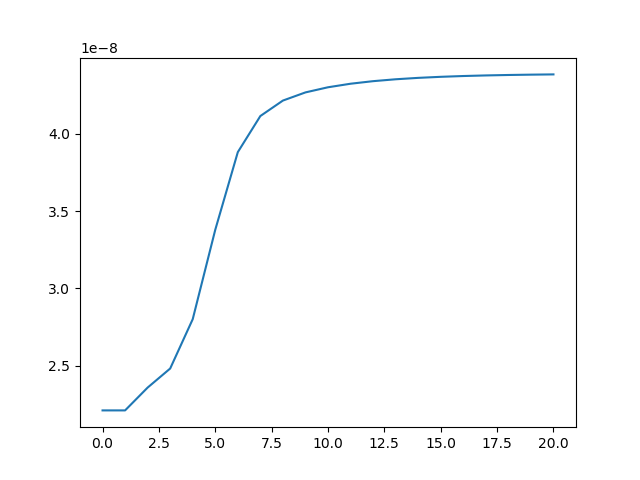
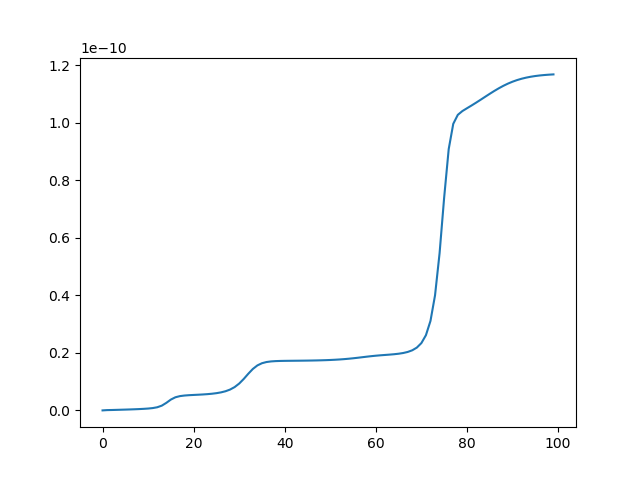
This seems to be working fine!

diff --git a/Baumwelch.py b/Baumwelch.py
@@ -87,13 +87,13 @@ def computeloglikelihoodnew(pie,transmtrx,obsmtrx,observations):
     thirdelemsum = 0.0
     for state1 in range(nstates):
         firstelemsum += np.log(pie[state1])
+        for state2 in range(nstates):
+            secondelemsum += np.log(transmtrx[state1,state2] )
         for time in range(timelength):
-            for state2 in range(nstates):
-                    secondelemsum += np.log(transmtrx[state1,state2] )
             for obs in range(numobscases):
                 if observations[time] == obs:
                     thirdelemsum += np.log(obsmtrx[state1,int(obs)])
-    return -(firstelemsum + secondelemsum + thirdelemsum)
+    return (firstelemsum + secondelemsum + thirdelemsum)
 
 
 # advanced version :D
@@ -306,7 +306,7 @@ def M_step(gammas,kissies,numobscases,observations):
         newpie = eps *np.ones((numstate))
         newtransmtrx = eps * np.ones((numstate,numstate))
         newobsmtrx = eps * np.ones((numstate,numobscases))
-        numsamples = eps * np.shape(gammas)[0]
+        numsamples = np.shape(gammas)[0]
         for i in range(numstate):
             newpie[i] = np.mean((gammas[:,0,i]))
         for q in range(numstate):
@@ -361,7 +361,7 @@ def Baumwelch(observations,numstates,numobscases,exmodel = None):
 
     # initialization
     # (pie,transmtrx,obsmtrx )= initializeparameters(observations,numstates,numobscases,numsamples)
-    # (pie,transmtrx,obsmtrx )= initializeparameters_closetoreality(observations,numstates,numobscases,numsamples,exmodel)
+    (pie,transmtrx,obsmtrx )= initializeparameters_closetoreality(observations,numstates,numobscases,numsamples,exmodel)
     # (pie,transmtrx,obsmtrx ) = clipvalues_prevunderflow_small(pie,transmtrx,obsmtrx)
     # print "realpie"
     # print exmodel.pie
@@ -373,16 +373,16 @@ def Baumwelch(observations,numstates,numobscases,exmodel = None):
     # print exmodel.obsmtrx
     # print obsmtrx
     # print pie
-    pie = exmodel.pie
-    transmtrx = exmodel.transitionmtrx
-    obsmtrx = exmodel.obsmtrx
-    noiterations = 20
+    # pie = exmodel.pie
+    # transmtrx = exmodel.transitionmtrx
+    # obsmtrx = exmodel.obsmtrx
+    noiterations = 100
     conv_threshold = 0.001
     diff_consec_params = 100
     likelihoods = []
     (gammas,betas,alphas,log_prob_most_likely_seq,most_likely_seq,forward_most_likely_seq,forward_log_prob_most_likely_seq,Zis,logobservations) = \
     forward_backward(transmtrx,obsmtrx,pie,observations)
-    likelihoods.append(logobservations)
+    # likelihoods.append(logobservations)
     # print log_prob_most_likely_seq
     # print "initial log likelihood is "
     # print log_prob_most_likely_seq
@@ -429,7 +429,7 @@ def Baumwelch(observations,numstates,numobscases,exmodel = None):
         # print "one iteration is done now for the fun part calculation of likelihood"
         # print "gammas are"
         # print gammas
-        # curloglikelihood = computeloglikelihood(pie,transmtrx,obsmtrx,observations)
+        # curloglikelihood = computeloglikelihoodnew(pie,transmtrx,obsmtrx,observations)
         # print curloglikelihood
         likelihoods.append(logobservations)
         piedist = np.linalg.norm(pie - prevpie ) / float(numstates)
@@ -464,33 +464,33 @@ def Baumwelch(observations,numstates,numobscases,exmodel = None):
     #     prob *= deltas[i,Optstate[i][0]]
     # print prob
     title = "likelihoodtrand.png"
-    maxlikelihood = max(likelihoods)
-    likelihoods = [item+maxlikelihood for item in likelihoods]
+    # maxlikelihood = max(likelihoods)
+    # likelihoods = [item+maxlikelihood for item in likelihoods]
     print likelihoods
-    plt.plot(range(noiterations+1),likelihoods)
+    plt.plot(range(noiterations),likelihoods)
     plt.savefig(title)
     
     return (pie,transmtrx,obsmtrx) 
 
-# def main():
-#     exmodel = hmmforward(2,4,1,150,2)
-#     numstates = exmodel.numofstates
-#     numobscases = exmodel.numofobsercases
-#     observations = exmodel.observations
-#     (pie,transmtrx,obsmtrx) =  Baumwelch(observations,numstates,numobscases,exmodel)
-#     # (pie,transmtrx,obsmtrx) = clipvalues_prevunderflow_small(pie,transmtrx,obsmtrx)
-#     piedist = np.linalg.norm(pie - exmodel.pie ) / float(numstates)
-#     transdist = np.linalg.norm(transmtrx - exmodel.transitionmtrx) / float(numstates **2)
-#     obsdist = np.linalg.norm(obsmtrx - exmodel.obsmtrx) / float(numobscases * numstates)
-#     print "realpie"
-#     print exmodel.pie
-    # print pie
-#     print "realtrans"
-#     print exmodel.transitionmtrx
-#     print transmtrx
-#     print "real obsmtrx"
-#     print exmodel.obsmtrx
-#     print obsmtrx
-#     print piedist,transdist,obsdist
-#     print "dooshag"
-# main()
+def main():
+    exmodel = hmmforward(3,5,1,20,1)
+    numstates = exmodel.numofstates
+    numobscases = exmodel.numofobsercases
+    observations = exmodel.observations
+    (pie,transmtrx,obsmtrx) =  Baumwelch(observations,numstates,numobscases,exmodel)
+    # (pie,transmtrx,obsmtrx) = clipvalues_prevunderflow_small(pie,transmtrx,obsmtrx)
+    piedist = np.linalg.norm(pie - exmodel.pie ) / float(numstates)
+    transdist = np.linalg.norm(transmtrx - exmodel.transitionmtrx) / float(numstates **2)
+    obsdist = np.linalg.norm(obsmtrx - exmodel.obsmtrx) / float(numobscases * numstates)
+    print "realpie"
+    print exmodel.pie
+    print pie
+    print "realtrans"
+    print exmodel.transitionmtrx
+    print transmtrx
+    print "real obsmtrx"
+    print exmodel.obsmtrx
+    print obsmtrx
+    print piedist,transdist,obsdist
+    print "dooshag"
+main()
